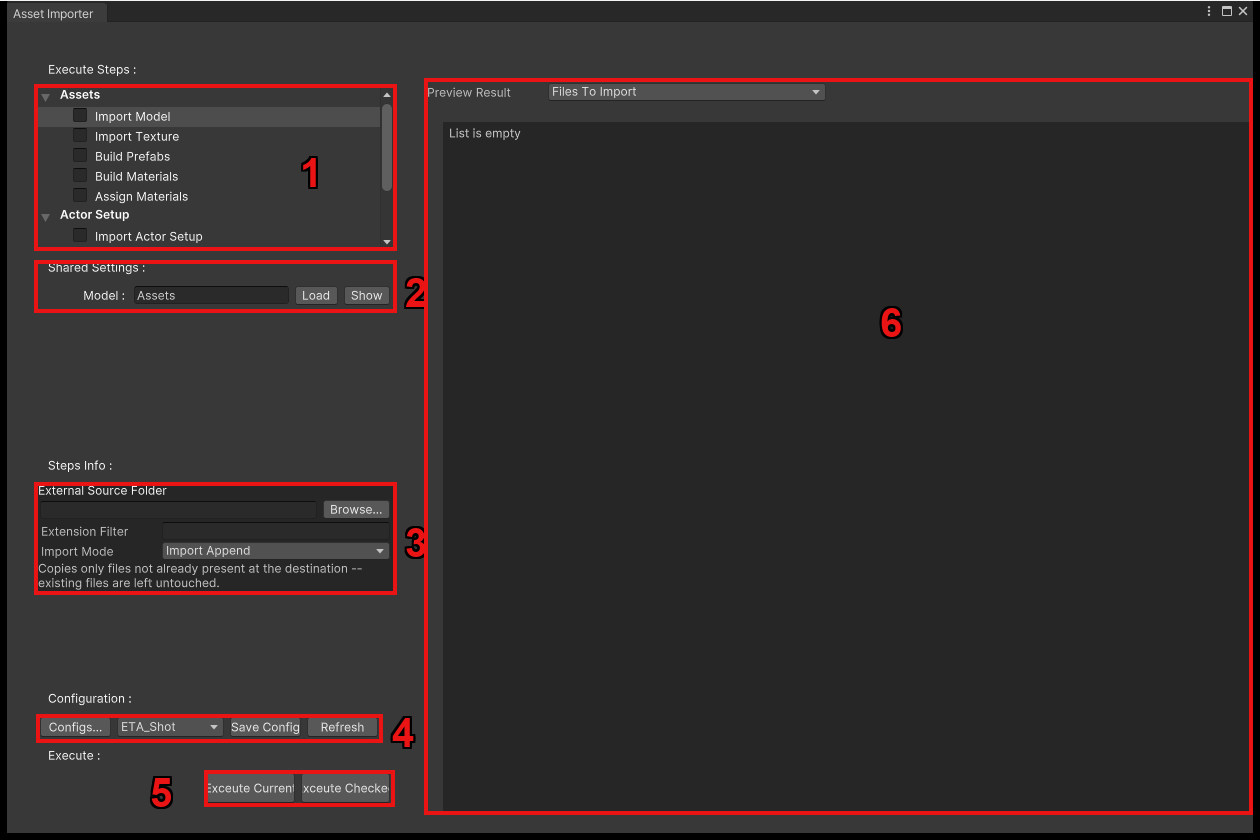
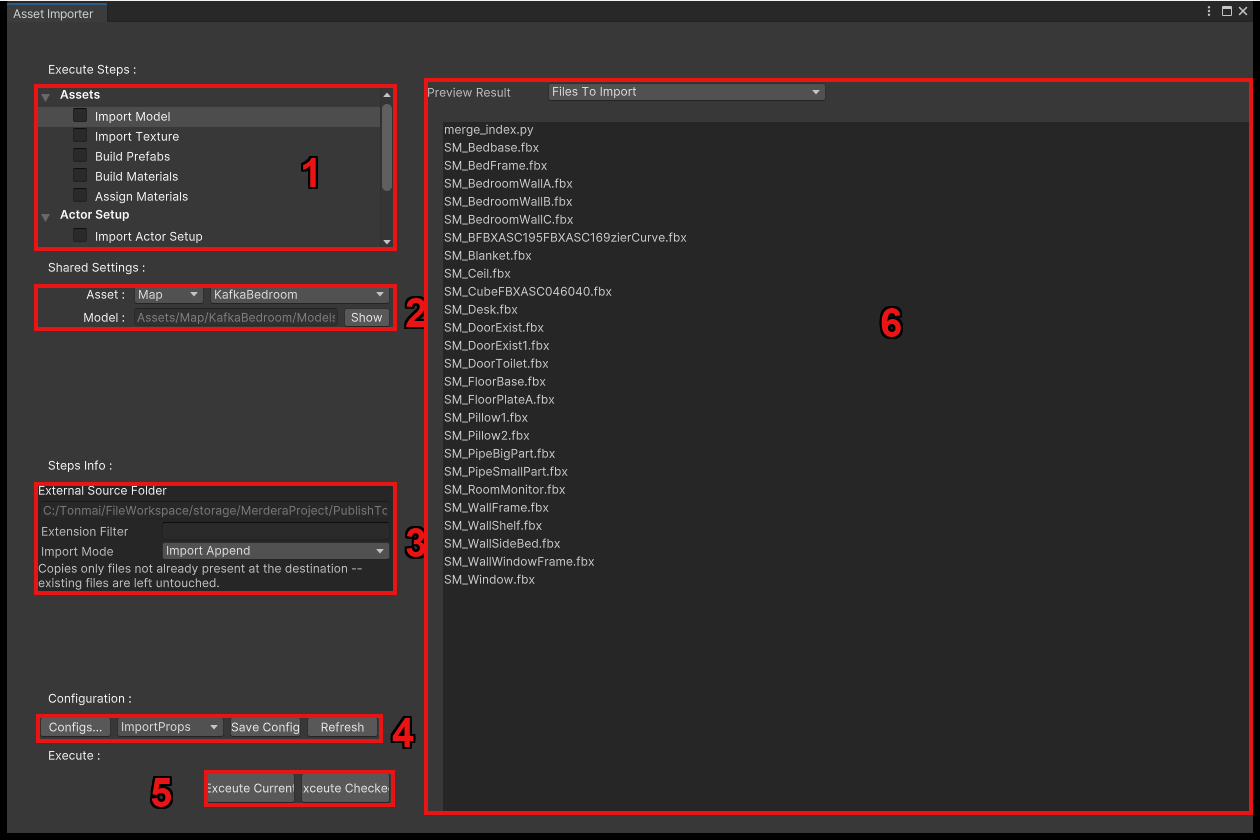
Asset Import: paths are fixed, pick a Map or Prop

Changed region(s): [[0.0, 0.1548, 0.5262, 0.7119], [0.0619, 0.5881, 0.3095, 0.619], [0.0929, 0.8357, 0.1548, 0.8667]]

diff --git a/docs/asset_import/quick-start.md b/docs/asset_import/quick-start.md
@@ -3,20 +3,30 @@
 ใช้นำ Model และ Texture ของฉากกับพร็อปเข้า Unity แล้วต่อเป็น Prefab ที่มี Material พร้อมใช้
 ไม่ต้องทำมือทีละชิ้น เปิดได้ที่ `UkoreHub > Asset Importer...`
 
-ไฟล์ต้นทางอยู่ที่ `PublishToUnity/model/` และ `PublishToUnity/map/`
+ไม่ต้องตั้ง Path เอง แค่เลือกว่าเป็น **Map** หรือ **Prop** และชื่อ ระบบจะหาโฟลเดอร์ให้ทั้งหมด
 
 ![ขั้นตอนของ Asset Import จากไฟล์ต้นทางจนได้ Prefab พร้อมใช้](../assets/images/asset_import_flow.png)
 
 ![Asset Importer](../assets/images/asset_import_ui.png)
 
 1. **Execute Steps** — เลือก Step ที่จะดู และติ๊ก Step ที่จะรันรวมกัน หน้านี้ใช้แค่หมวด **Assets**
-2. **Shared Settings** — โฟลเดอร์ปลายทางของ Step นี้ใน Unity
-3. **Steps Info** — ค่าของ Step นี้ เช่น External Source Folder, Extension Filter, Import Mode
+2. **Asset** — เลือก Map หรือ Prop และชื่อ ส่วนโฟลเดอร์ปลายทางจะขึ้นให้เองและแก้ไม่ได้
+3. **Steps Info** — ค่าของ Step นี้ เช่น Extension Filter, Import Mode ส่วน External Source Folder จะขึ้นให้เอง
 4. **Configuration** — บันทึกหรือเรียกชุดค่าที่ตั้งไว้
 5. **Execute** — **Execute Current** รัน Step ที่เลือกอยู่ ส่วน **Execute Checked** รันทุก Step ที่ติ๊กตามลำดับ
 6. **Preview Result** — ดูก่อนรันว่าเจอไฟล์อะไร และชื่อไหนผ่านหรือไม่ผ่าน
 
-## กฎที่ต้องรู้: ตั้งชื่อให้ตรง Pattern
+## กฎที่ต้องรู้ 1: วางไฟล์ให้ถูกโฟลเดอร์
+
+| ประเภท | วางไฟล์ไว้ที่ | เข้า Unity ที่ |
+| --- | --- | --- |
+| Map | `PublishToUnity/map/{ชื่อ}/Models` และ `Textures` | `Assets/Map/{ชื่อ}/` |
+| Prop | `PublishToUnity/model/{ชื่อ}/Models` และ `Textures` | `Assets/Prop/{ชื่อ}/` |
+
+ใน `Assets/Map/{ชื่อ}/` หรือ `Assets/Prop/{ชื่อ}/` จะมี `Models`, `Textures`, `Prefabs`, `Materials`
+ถ้าไม่มีโฟลเดอร์ `{ชื่อ}` ตัวเลือกนั้นจะไม่ขึ้นในรายการ
+
+## กฎที่ต้องรู้ 2: ตั้งชื่อให้ตรง Pattern
 
 ระบบจับคู่ไฟล์จากชื่อเท่านั้น โดยใช้ `{AssetId}` เป็นตัวเชื่อม
 
@@ -37,9 +47,9 @@
 
 ## วิธีใช้
 
-1. ตั้งชื่อไฟล์ให้ตรง Pattern
-2. เลือก **Import Model** ใส่ External Source Folder แล้วตั้ง Extension Filter เช่น `.fbx`
-3. เลือก **Import Texture** แล้วตั้งค่าแบบเดียวกัน เช่น `.png`
+1. วางไฟล์ให้ถูกโฟลเดอร์ และตั้งชื่อไฟล์ให้ตรง Pattern
+2. ที่ **Asset** เลือก Map หรือ Prop และชื่อ
+3. เลือก **Import Model** แล้วตั้ง Extension Filter เป็น `.fbx` จากนั้นทำแบบเดียวกันที่ **Import Texture** เช่น `.png`
 4. เลือก **Build Prefabs** แล้วเช็ก Preview Result
 5. เลือก **Build Materials** เลือก **Mapping Template** แล้วเช็ก Preview Result
 6. เลือก **Assign Materials** แล้วเช็ก Preview Result
@@ -76,7 +86,10 @@
 
 | อาการ | ลองดู |
 | --- | --- |
+| ไม่เจอชื่อที่ต้องการใน Asset | ยังไม่มีโฟลเดอร์ `PublishToUnity/map/{ชื่อ}` หรือ `model/{ชื่อ}` สร้างแล้วกด **Refresh** |
+| ขึ้น skipped -- pick a Map or Prop first | ยังไม่ได้เลือก Asset Config เก่าต้องเลือกใหม่แล้วกด **Save Config** หนึ่งครั้ง |
 | ไฟล์หายจากผลลัพธ์ | ชื่อไม่ตรง Pattern ดูรายการ Invalid ใน Preview Result |
+| มีไฟล์แปลกติดมาด้วย เช่น `.py` | Extension Filter ว่างอยู่ ระบบจะ Copy ทุกไฟล์ ให้ใส่นามสกุลที่ต้องการ |
 | Prefab ไม่ได้ Material | ยังไม่ได้รัน Build Materials หรือ `{AssetId}` ไม่ตรงกัน |
 | Material ขาด Map บางตัว | `{MapName}` ไม่ตรงกับ Slot ใน Mapping Template |
 | Material ที่ใส่เองหาย | รัน Assign Materials ซ้ำ ระบบทับของเดิม |

diff --git a/docs/unity_ukore_importer/quick-start.md b/docs/unity_ukore_importer/quick-start.md
@@ -37,8 +37,8 @@ Folder เลย
 ## หมวด Assets
 
 ### Import Model / Import Texture
-**Require:** External Source Folder ที่เข้าถึงได้ (path นอกโปรเจกต์ก็ได้ ไม่ต้อง
-อยู่ใต้ Assets/) เท่านั้น ไม่ต้องมี Step อื่นรันมาก่อน
+**Require:** เลือก Map หรือ Prop และชื่อที่ช่อง **Asset** ระบบจะหาโฟลเดอร์ให้เอง (ดู
+[Asset Import](../asset_import/quick-start.md)) ไม่ต้องมี Step อื่นรันมาก่อน
 
 **ระบบตรวจจับ:** สแกนไฟล์ทุกไฟล์ใน External Source Folder แบบ Recursive แล้ว
 กรองด้วย Extension Filter (คั่นด้วย `,` หรือ `;` มี `.` นำหน้าหรือไม่ก็ได้ เว้นว่าง
